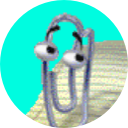
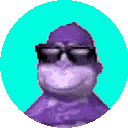
replaced clippy with a far cooler late-90s-early-2000s mascot
B)

diff --git a/src/extension.ts b/src/extension.ts
@@ -71,26 +71,26 @@ const clip = (msg: string, { img }: { img: string }) => html`
 
 export async function activate(context: vscode.ExtensionContext) {
   const onDiskPath = vscode.Uri.file(
-    path.join(context.extensionPath, "clippy.gif")
+    path.join(context.extensionPath, "bonzi-buddy.gif")
   );
 
-  let clippy: vscode.WebviewPanel | null;
-  const disposeOfClippy = () => {
-    if (clippy) {
-      clippy.dispose();
+  let bonziBuddy: vscode.WebviewPanel | null;
+  const disposeOfBonziBuddy = () => {
+    if (bonziBuddy) {
+      bonziBuddy.dispose();
     }
   };
 
-  const showClippy = ({
+  const showBonziBuddy = ({
     source = "nice",
     errors
   }: {
     source?: string;
     errors: vscode.Diagnostic[];
   }) => {
-    disposeOfClippy();
+    disposeOfBonziBuddy();
 
-    clippy = vscode.window.createWebviewPanel("clippy", "Clippy", {
+    bonziBuddy = vscode.window.createWebviewPanel("bonziBuddy", "Bonzi Buddy", {
       viewColumn: vscode.ViewColumn.Beside,
       preserveFocus: true
     });
@@ -108,9 +108,9 @@ export async function activate(context: vscode.ExtensionContext) {
       .join(" and ")}. You should really fix that?`;
 
     //@ts-ignore
-    const img = clippy.webview.asWebviewUri(onDiskPath);
+    const img = bonziBuddy.webview.asWebviewUri(onDiskPath);
 
-    clippy.webview.html = clip(text, { img });
+    bonziBuddy.webview.html = clip(text, { img });
   };
 
   vscode.languages.onDidChangeDiagnostics(e => {
@@ -126,9 +126,9 @@ export async function activate(context: vscode.ExtensionContext) {
 
       const diags = vscode.languages.getDiagnostics(uri);
       if (diags.length < 1) {
-        disposeOfClippy();
+        disposeOfBonziBuddy();
       } else {
-        showClippy({
+        showBonziBuddy({
           source: diags[0].source,
           errors: diags
         });

diff --git a/README.md b/README.md
@@ -1,4 +1,4 @@
-# Clippy for VS Code
+# Bonzi Buddy for VS Code
 
 <img width="1371" alt="Screen Shot 2020-03-09 at 7 25 35 pm" src="https://user-images.githubusercontent.com/11539094/76249691-cd966700-623b-11ea-974b-a5d2364e05d2.png">
 
